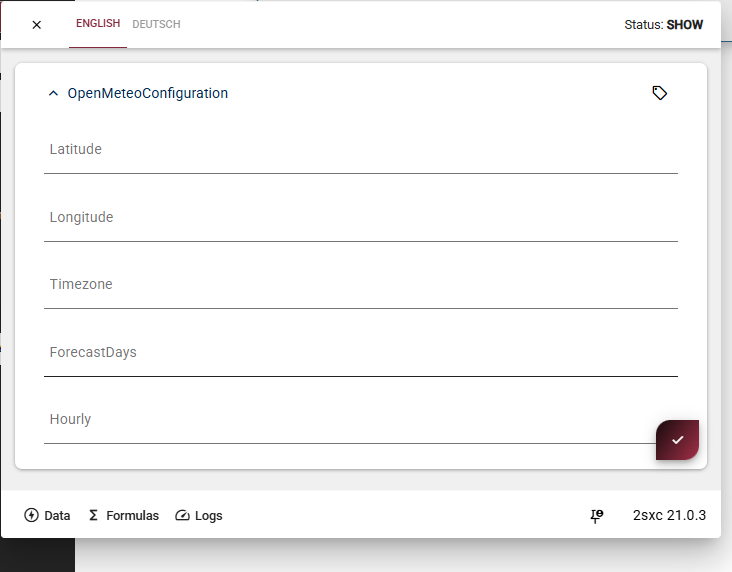
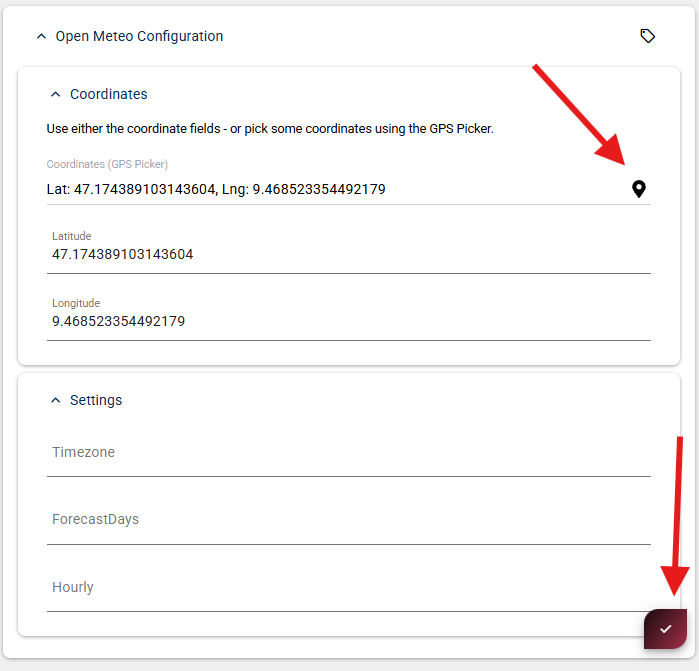
regenerate open-meteo docs

diff --git a/docs/abyss/contribute/extensions/index.html b/docs/abyss/contribute/extensions/index.html
@@ -108,14 +108,191 @@
 <p><em>Important: If you only want to USE 2sxc / EAV, then <strong>you do NOT need this</strong>. This is meant for people who want to contribute to the source code of 2sxc and EAV.</em></p>
 <p>When we create extensions, we often need to document them, test them, and also create the code for them.
 These internal guidelines should help us make sure we do it well.</p>
-<h2 id="file-structure-and-naming-todo-2rb">File Structure and Naming TODO: @2rb</h2>
-<p>TODO:</p>
-<h2 id="other-stuff-2rb">Other Stuff @2rb</h2>
-<p>TODO:</p>
+<hr>
+<h2 id="file-structure-and-naming-conventions">File Structure and Naming Conventions</h2>
+<h3 id="view-files">View Files</h3>
+<p>When creating views for testing or documentation:</p>
+<ul>
+<li><strong>Test Views</strong>: Name them <code>Test-TopicRelated.cshtml</code>
+<ul>
+<li>Example: <code>Test-ColorPicker.cshtml</code>, <code>Test-DataSourceWeather.cshtml</code></li>
+</ul>
+</li>
+<li><strong>Documentation Example Views</strong>: Name them <code>Docs-Topic.cshtml</code>
+<ul>
+<li>Example: <code>Docs-ColorPicker.cshtml</code>, <code>Docs-BasicUsage.cshtml</code></li>
+<li><strong>Keep code as simple and short as possible</strong> - focus on demonstrating the essential functionality only</li>
+</ul>
+</li>
+</ul>
+<h3 id="code-files">Code Files</h3>
+<ul>
+<li><strong>Main Extension Code</strong>: Place in <code>/AppCode/Extensions/[ExtensionName]/</code>
+<ul>
+<li>Example: <code>/AppCode/Extensions/OpenMeteo/OpenMeteoCurrent.cs</code></li>
+</ul>
+</li>
+<li><strong>Helper Classes</strong>: Place in an <code>Internal</code> subfolder
+<ul>
+<li>Example: <code>/AppCode/Extensions/OpenMeteo/Internal/ApiHelper.cs</code></li>
+</ul>
+</li>
+<li><strong>Generated Data Files</strong>: Place in a <code>Data</code> subfolder
+<ul>
+<li>Example: <code>/AppCode/Extensions/OpenMeteo/Data/WeatherResult.cs</code></li>
+</ul>
+</li>
+</ul>
+<p><strong>Important</strong>: Keep the main extension folder clean - only essential files should be at the root level.</p>
+<h3 id="extension-folder-structure">Extension Folder Structure</h3>
+<pre><code class="lang-text">/AppCode
+  /Extensions
+    /[ExtensionName]
+      MainClass.cs            # Main extension code
+      /Internal
+        HelperClass.cs        # Internal helper classes
+      /Data
+        DataModel.cs          # Data models
+/extensions
+  /[extension-name]
+    /App_Data
+      extension.json          # Extension manifest
+      icon.svg                # Extension icon
+</code></pre>
+<hr>
+<h2 id="testing-your-extension">Testing Your Extension</h2>
+<h3 id="keep-test-code-separate">Keep Test Code Separate</h3>
+<p>When developing an extension in the same App where you're testing it:</p>
+<ol>
+<li><strong>Clearly name test files</strong> to distinguish them from extension code</li>
+<li><strong>Keep test files out of exports</strong> to avoid bloating the extension package</li>
+</ol>
+<h3 id="test-views-best-practices">Test Views Best Practices</h3>
+<ol>
+<li>Create dedicated test views that demonstrate the extension's functionality</li>
+<li>Include both success and error scenarios</li>
+<li>Add helpful comments explaining what each test does</li>
+<li>Use the <code>Test-</code> prefix consistently</li>
+</ol>
+<hr>
+<h2 id="documentation-requirements">Documentation Requirements</h2>
+<p>When contributing an extension, always provide:</p>
+<h3 id="1-readmemd">1. README.md</h3>
+<p>Include:</p>
+<ul>
+<li><strong>Overview</strong>: What the extension does</li>
+<li><strong>Installation</strong>: How to install and configure it</li>
+<li><strong>Usage</strong>: Code examples showing how to use it</li>
+<li><strong>Configuration</strong>: Any settings or parameters</li>
+<li><strong>Examples</strong>: Practical use cases</li>
+<li><strong>Dependencies</strong>: Required packages or other extensions</li>
+<li><strong>Version History</strong>: Changes in each version</li>
+</ul>
+<p><strong>Important</strong>: Keep all documentation code examples as simple and short as possible. Focus on showing the essential functionality without unnecessary complexity.</p>
+<h3 id="2-code-documentation">2. Code Documentation</h3>
+<ul>
+<li>Add XML documentation comments to all public classes and methods</li>
+<li>Explain parameters, return values, and any exceptions</li>
+<li>Include usage examples in the comments when helpful</li>
+</ul>
+<p>Example:</p>
+<pre><code class="lang-csharp">/// &lt;summary&gt;
+/// Gets current weather data from the OpenMeteo API.
+/// &lt;/summary&gt;
+/// &lt;param name=&quot;latitude&quot;&gt;Geographic latitude (-90 to 90)&lt;/param&gt;
+/// &lt;param name=&quot;longitude&quot;&gt;Geographic longitude (-180 to 180)&lt;/param&gt;
+/// &lt;returns&gt;Weather data as IEnumerable of ITypedItem&lt;/returns&gt;
+public IEnumerable&lt;ITypedItem&gt; GetCurrent(double latitude, double longitude)
+{
+  // Implementation
+}
+</code></pre>
+<hr>
+<h2 id="code-quality-standards">Code Quality Standards</h2>
+<h3 id="naming-conventions">Naming Conventions</h3>
+<ol>
+<li><strong>Classes</strong>: PascalCase - <code>OpenMeteoCurrent</code>, <code>ColorPickerSpectrum</code></li>
+<li><strong>Methods</strong>: PascalCase - <code>GetWeatherData()</code>, <code>ParseResponse()</code></li>
+<li><strong>Parameters</strong>: camelCase - <code>latitude</code>, <code>temperatureUnit</code></li>
+</ol>
+<h3 id="error-handling">Error Handling</h3>
+<ol>
+<li>Always validate input parameters</li>
+<li>Provide meaningful error messages</li>
+<li>Use try-catch blocks for external API calls</li>
+<li>Never expose sensitive information in error messages</li>
+</ol>
+<hr>
+<h2 id="datasource-extensions">DataSource Extensions</h2>
+<p>When creating DataSource extensions:</p>
+<h3 id="requirements">Requirements</h3>
+<ol>
+<li><p><strong>Configure properly</strong></p>
+<ul>
+<li>Set <code>ProvideOut</code> attribute to define output streams</li>
+<li>Use <code>Configuration</code> property for parameters</li>
+</ul>
+</li>
+<li><p><strong>Return correct data types</strong></p>
+<ul>
+<li>Return <code>IEnumerable&lt;IEntity&gt;</code> or similar</li>
+<li>Use proper field types (string, number, boolean, etc.)</li>
+</ul>
+</li>
+</ol>
+<h3 id="example-structure">Example Structure</h3>
+<pre><code class="lang-csharp">[VisualQuery(
+  NiceName = &quot;OpenMeteo Current&quot;,
+  Icon = &quot;weather&quot;,
+  HelpLink = &quot;https://go.2sxc.org/ext-openmeteo&quot;
+)]
+public class OpenMeteoCurrent : ExternalData
+{
+  // Configuration properties
+  public double Latitude { get; set; }
+  public double Longitude { get; set; }
+  
+  // Implementation
+}
+</code></pre>
+<hr>
+<h2 id="custom-input-field-extensions">Custom Input Field Extensions</h2>
+<p>When creating custom input fields:</p>
+<ol>
+<li><strong>JavaScript/TypeScript files</strong> go in <code>/extensions/[extension-name]/</code></li>
+<li><strong>Register the field</strong> in the extension.json</li>
+<li><strong>Follow naming conventions</strong>: <code>field-string-[name].js</code></li>
+<li><strong>Provide configuration UI</strong> if the field has settings</li>
+</ol>
+<h3 id="best-practices">Best Practices</h3>
+<ol>
+<li>Handle all field states (empty, disabled, required)</li>
+<li>Validate user input</li>
+<li>Provide clear visual feedback</li>
+</ol>
+<hr>
+<h2 id="publishing-extensions">Publishing Extensions</h2>
+<h3 id="before-publishing">Before Publishing</h3>
+<ul>
+<li>[ ] All code is properly documented</li>
+<li>[ ] Test views work correctly</li>
+<li>[ ] README.md is complete and accurate</li>
+<li>[ ] Version number follows semantic versioning</li>
+<li>[ ] License is specified</li>
+<li>[ ] No sensitive data (API keys, passwords) in code</li>
+</ul>
+<hr>
+<h2 id="useful-links">Useful Links</h2>
+<ul>
+<li><a class="xref" href="../../../extensions/app-extensions/index.html">App Extensions Overview</a></li>
+<li><a class="xref" href="../../../extensions/app-extensions/create/index.html">Create Your Own Extension</a></li>
+<li><a class="xref" href="../../../extensions/app-extensions/technical/index.html">Technical Documentation</a></li>
+<li><a class="xref" href="../../../extensions/app-extensions/install/index.html">How to Install Extensions</a></li>
+</ul>
 <hr>
 <h2 id="history">History</h2>
 <ul>
-<li>todo</li>
+<li>Initial</li>
 </ul>
 
 </article>

diff --git a/docs/extensions/app-extensions/by-2sxc/datasources-open-meteo/index.html b/docs/extensions/app-extensions/by-2sxc/datasources-open-meteo/index.html
@@ -133,7 +133,7 @@ It lets you pull <strong>Current weather</strong> and/or <strong>Forecast data</
 <hr>
 <h3 id="use-in-visual-query">Use in Visual Query</h3>
 <ol>
-<li>Add the DataSource <strong>Open-Meteo Current</strong> or <strong>Open-Meteo Forecast</strong></li>
+<li>Add the DataSource <code>Open-Meteo Current</code> or <code>Open-Meteo Forecast</code></li>
 <li>Set the configuration values (Latitude/Longitude/…)</li>
 <li>Connect it to your output</li>
 <li>Inspect the <code>Default</code> stream to see the returned fields</li>
@@ -142,6 +142,9 @@ It lets you pull <strong>Current weather</strong> and/or <strong>Forecast data</
   <img src="../../../../pages/extensions/app-extensions/by-2sxc/datasources-open-meteo/assets/open-meteo-visual-query.png">
   <img src="../../../../pages/extensions/app-extensions/by-2sxc/datasources-open-meteo/assets/open-meteo-parameters.png">
 </div>
+<blockquote>
+<p>Tip: In the configuration UI, click the small map icon next to the coordinate fields to pick latitude/longitude from a map.</p>
+</blockquote>
 <hr>
 <h3 id="use-in-razortyped-minimal-examples">Use in RazorTyped (minimal examples)</h3>
 <p>Below are intentionally short examples. Your actual namespace/class names may differ depending on where you placed the files.</p>
@@ -153,42 +156,54 @@ It lets you pull <strong>Current weather</strong> and/or <strong>Forecast data</
 <li>Access fields by name (as shown in the Visual Query inspector)</li>
 </ol>
 <pre><code class="lang-cshtml">@inherits Custom.Hybrid.RazorTyped
-@using System.Linq
 @using AppCode.Extensions.OpenMeteo
-
+@using AppCode.Extensions.OpenMeteo.Data
 
 &lt;h3&gt;Current Weather&lt;/h3&gt;
 @{
   // Create a data source for current weather data from OpenMeteo API
   // Parameters specify the location and timezone settings
-  var currentDs = Kit.Data.GetSource&lt;OpenMeteoCurrent&gt;(parameters: new {
-    Latitude = 47.1674,   // Latitude coordinate for the location
-    Longitude = 9.4779,   // Longitude coordinate for the location
-    Timezone = &quot;auto&quot;     // Automatically detect timezone based on coordinates
+  var currentDs = Kit.Data.GetSource&lt;OpenMeteoCurrent&gt;(parameters: new OpenMeteoParameters() {
+    Latitude = 47.1674,   // Latitude of the location
+    Longitude = 9.4779,   // Longitude of the location
+    Timezone = &quot;auto&quot;     // Use timezone of coordinates
   });
 
-  // Convert the first result from the data source into a dynamic item
-  // propsRequired: false allows the item to be null if no data is returned
-  var current = AsItem(currentDs.List.FirstOrDefault(), propsRequired: false);
+  // Use the strongly-typed model
+  var current = As&lt;OpenMeteoResult&gt;(currentDs);
 }
 
-@if (current == null) {
-  // Display message if the API didn't return any weather data
-  &lt;p&gt;No data&lt;/p&gt;
+@* Display message if the API didn't return any weather data, then exit *@
+@if (current == null)
+{
+  &lt;div class=&quot;alert alert-warning&quot;&gt;
+    No data available
+  &lt;/div&gt;
+  return;
 }
-else {
-  // Display the current weather information retrieved from the API
-  &lt;p&gt;&lt;strong&gt;Time:&lt;/strong&gt; @current.String(&quot;When&quot;)&lt;/p&gt;                         @* Timestamp of the weather reading *@
-  &lt;p&gt;&lt;strong&gt;Temperature:&lt;/strong&gt; @current.Double(&quot;Temperature&quot;) °C&lt;/p&gt;        @* Current temperature in Celsius *@
-  &lt;p&gt;&lt;strong&gt;Weather:&lt;/strong&gt; @current.String(&quot;Weather&quot;)&lt;/p&gt;                   @* Weather condition description *@
-}
+
+@* Display the current weather information retrieved from the API *@
+&lt;ol&gt;
+  &lt;li&gt;
+    &lt;strong&gt;When:&lt;/strong&gt; @current.When
+  &lt;/li&gt;
+  &lt;li&gt;
+    &lt;strong&gt;Temperature:&lt;/strong&gt; @current.Temperature °C
+  &lt;/li&gt;
+  &lt;li&gt;
+    &lt;strong&gt;Weather:&lt;/strong&gt; @current.Weather
+  &lt;/li&gt;
+&lt;/ol&gt;
 </code></pre>
 <h3 id="forecast">Forecast</h3>
 <ol>
-<li>Creates an instance of the OpenMeteoForecast DataSource</li>
+<li>Creates an instance of the <code>OpenMeteoForecast</code> DataSource</li>
 <li>Reads the forecast data from the Default stream</li>
 <li>Iterates over the items and accesses fields by name</li>
 </ol>
+<blockquote>
+<p>Tip: You can cast the stream to the  <code>OpenMeteoResult</code> model using <code>AsList&lt;OpenMeteoResult&gt;(forecastDs)</code>.</p>
+</blockquote>
 <pre><code class="lang-cshtml">@inherits Custom.Hybrid.RazorTyped
 @using System.Linq
 @using AppCode.Extensions.OpenMeteo
@@ -240,6 +255,9 @@ else {
   &lt;/table&gt;
 }
 </code></pre>
+<blockquote>
+<p>Tip: You can cast the stream to the  <code>OpenMeteoResult</code> model using <code>AsList&lt;OpenMeteoResult&gt;(forecastDs)</code>.</p>
+</blockquote>
 <h2 id="history">History</h2>
 <ol>
 <li>Initial release</li>
